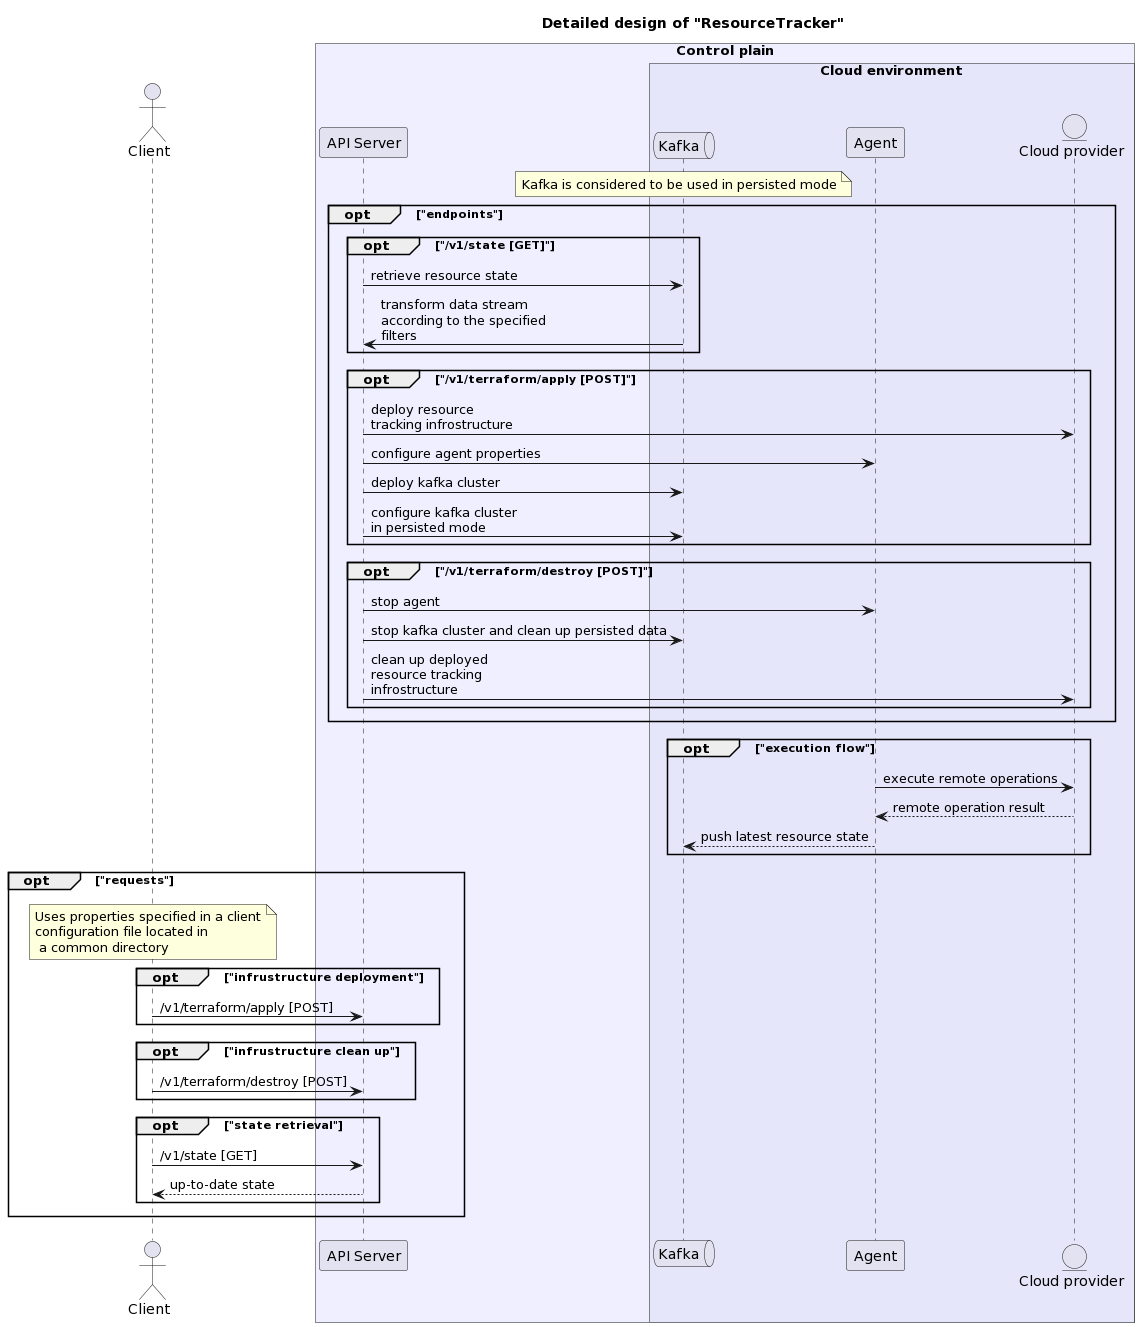
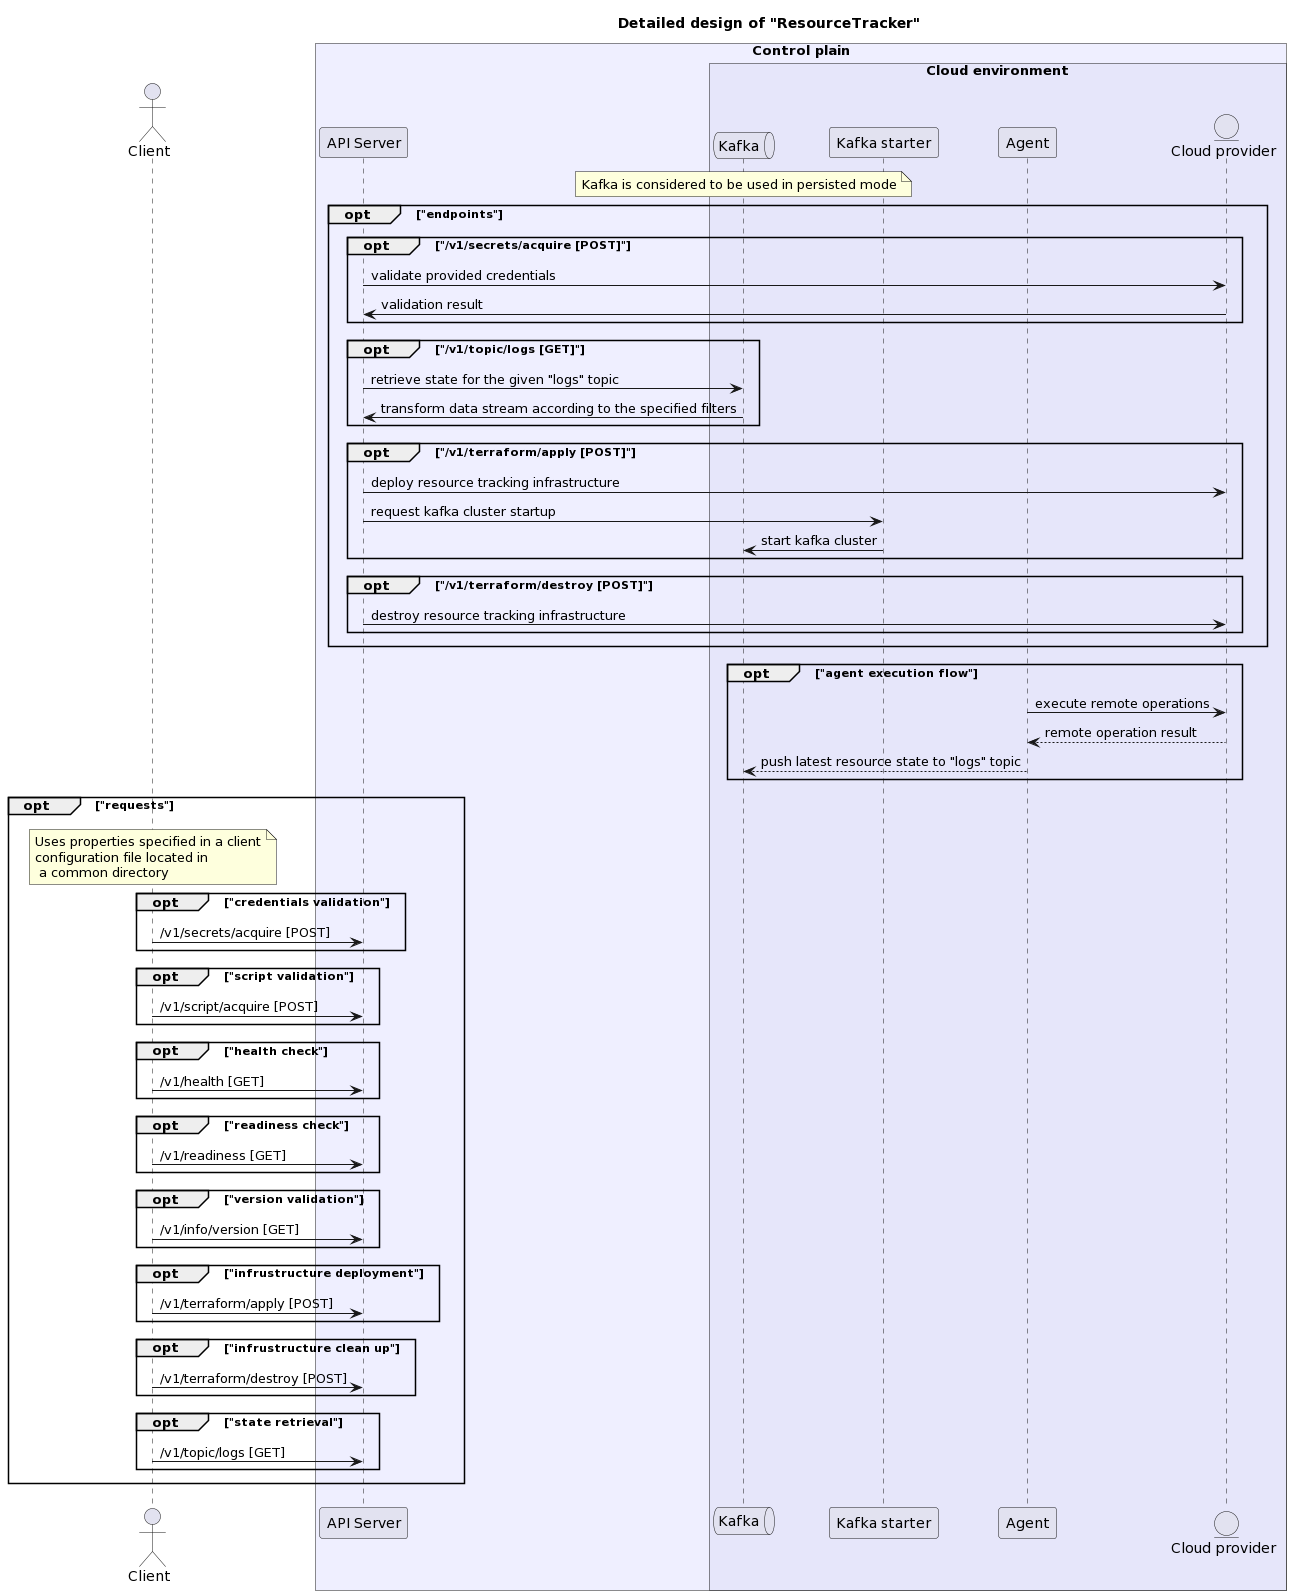
feature: updated docs

diff --git a/api-server/src/main/java/com/resourcetracker/service/kafka/KafkaService.java b/api-server/src/main/java/com/resourcetracker/service/kafka/KafkaService.java
@@ -16,6 +16,7 @@ import org.apache.kafka.common.Node;
 import org.apache.kafka.common.errors.TimeoutException;
 import org.apache.kafka.common.errors.UnsupportedVersionException;
 
+/** */
 public class KafkaService {
   private AdminClient kafkaAdminClient;
 
@@ -25,7 +26,13 @@ public class KafkaService {
 
   private final KafkaConsumer<String, KafkaLogsTopicDto> kafkaConsumer;
 
-  public KafkaService(String kafkaBootstrapServer, PropertiesEntity properties) {
+  public KafkaService(String kafkaBootstrapServerHost, PropertiesEntity properties) {
+    String kafkaBootstrapServer =
+        String.format(
+            "%s:%d", kafkaBootstrapServerHost, properties.getResourceTrackerKafkaMainPort());
+
+    System.out.println(kafkaBootstrapServerHost);
+
     Properties kafkaAdminClientProps = new Properties();
 
     kafkaAdminClientProps.put(ConsumerConfig.BOOTSTRAP_SERVERS_CONFIG, kafkaBootstrapServer);
@@ -52,6 +59,11 @@ public class KafkaService {
     this.kafkaConsumer.subscribe(Collections.singletonList(properties.getKafkaTopic()));
   }
 
+  /**
+   * Checks if Kafka service is connected to Kafka cluster at the given address.
+   *
+   * @return result of the check.
+   */
   public boolean isConnected() {
     if (isAvailable()) {
       if (Objects.isNull(kafkaAdminClient)) {
@@ -74,10 +86,16 @@ public class KafkaService {
     return false;
   }
 
-  private boolean isAvailable() {
+  /**
+   * Checks if Kafka service is available at the given address.
+   *
+   * @return result of the check.
+   */
+  public boolean isAvailable() {
     URL url;
+
     try {
-      url = URI.create(kafkaBootstrapServer).toURL();
+      url = URI.create(String.format("http://%s", kafkaBootstrapServer)).toURL();
     } catch (MalformedURLException e) {
       return false;
     }
@@ -91,6 +109,26 @@ public class KafkaService {
     }
   }
 
+  /**
+   * Checks if the given Kafka topic exists.
+   *
+   * @param name given Kafka topic name.
+   * @return result of the check.
+   */
+  public boolean isTopicExist(String name) {
+    kafkaAdminClient.listTopics().names().whenComplete((e, b) -> System.out.println(e.stream().toList()));
+
+//      return !kafkaConsumer.listTopics().keySet().stream()
+//          .filter(element -> !element.equals(name))
+//          .toList()
+//          .isEmpty();
+
+    return false;
+  }
+
+  /**
+   * @return
+   */
   public List<KafkaLogsTopicDto> consumeLogs() {
     List<KafkaLogsTopicDto> kafkaLogsTopicEntities = new ArrayList<>();
 

diff --git a/api-server/src/main/java/com/resourcetracker/entity/PropertiesEntity.java b/api-server/src/main/java/com/resourcetracker/entity/PropertiesEntity.java
@@ -30,6 +30,9 @@ public class PropertiesEntity {
   @ConfigProperty(name = "kafka.partitions")
   String kafkaPartitions;
 
+  @ConfigProperty(name = "kafka.readiness.period")
+  Integer kafkaReadinessPeriod;
+
   @ConfigProperty(name = "terraform.directory")
   String terraformDirectory;
 
@@ -56,10 +59,6 @@ public class PropertiesEntity {
 
   @ConfigProperty(name = "resourcetracker-kafka.image")
   String resourceTrackerKafkaImage;
-
-  //
-  //  @ConfigProperty(name = "resourcetracker-kafka.image.version")
-  //  String resourceTrackerKafkaImageVersion;
 
   @ConfigProperty(name = "resourcetracker-kafka.host.alias")
   String resourceTrackerKafkaHostAlias;

diff --git a/docs/detailed-design-raw.md b/docs/detailed-design-raw.md
@@ -12,6 +12,7 @@ participant "API Server" as apiserver
 
 box "Cloud environment" #Lavender
 queue "Kafka" as kafka
+participant "Kafka starter" as kafkastarter
 participant "Agent" as agent
 entity "Cloud provider" as cloudprovider
 end box
@@ -21,32 +22,47 @@ end box
 note over kafka: Kafka is considered to be used in persisted mode
 
 opt "endpoints"
-opt "/v1/state [GET]"
-apiserver -> kafka: retrieve resource state
-kafka -> apiserver: transform data stream\naccording to the specified\nfilters
+opt "/v1/secrets/acquire [POST]"
+apiserver -> cloudprovider: validate provided credentials
+cloudprovider -> apiserver: validation result
+end
+opt "/v1/topic/logs [GET]"
+apiserver -> kafka: retrieve state for the given "logs" topic
+kafka -> apiserver: transform data stream according to the specified filters
 end
 opt "/v1/terraform/apply [POST]"
-apiserver -> cloudprovider: deploy resource\ntracking infrostructure
-apiserver -> agent: configure agent properties
-apiserver -> kafka: deploy kafka cluster
-apiserver -> kafka: configure kafka cluster\nin persisted mode
+apiserver -> cloudprovider: deploy resource tracking infrastructure
+apiserver -> kafkastarter: request kafka cluster startup 
+kafkastarter -> kafka: start kafka cluster
 end
 opt "/v1/terraform/destroy [POST]"
-apiserver -> agent: stop agent
-apiserver -> kafka: stop kafka cluster and clean up persisted data
-apiserver -> cloudprovider: clean up deployed\nresource tracking\ninfrostructure
+apiserver -> cloudprovider: destroy resource tracking infrastructure
 end
 end
 
-opt "execution flow"
+opt "agent execution flow"
 agent -> cloudprovider: execute remote operations
 agent <-- cloudprovider: remote operation result
-agent --> kafka: push latest resource state
+agent --> kafka: push latest resource state to "logs" topic
 end
 
 opt "requests"
 note over client: Uses properties specified in a client\nconfiguration file located in\n a common directory
-
+opt "credentials validation"
+client -> apiserver: /v1/secrets/acquire [POST]
+end
+opt "script validation"
+client -> apiserver: /v1/script/acquire [POST]
+end
+opt "health check"
+client -> apiserver: /v1/health [GET]
+end
+opt "readiness check"
+client -> apiserver: /v1/readiness [GET]
+end
+opt "version validation"
+client -> apiserver: /v1/info/version [GET]
+end
 opt "infrustructure deployment"
 client -> apiserver: /v1/terraform/apply [POST]
 end
@@ -54,8 +70,7 @@ opt "infrustructure clean up"
 client -> apiserver: /v1/terraform/destroy [POST]
 end
 opt "state retrieval"
-client -> apiserver: /v1/state [GET]
-client <-- apiserver: up-to-date state 
+client -> apiserver: /v1/topic/logs [GET]
 end 
 end
 ```

diff --git a/README.md b/README.md
@@ -22,12 +22,14 @@ All setup related operations are processed via **Makefile** placed in the root d
 
 ### CLI
 
-In order to build CLI it's required to execute the following command. Initially it cleans the environment and build Java project using **Maven**
+In order to build CLI it's required to execute the following command. Initially it cleans the environment and builds Java project using **Maven**
 ```shell
 make build-cli
 ```
 
 After the execution of command given above the executable will be generated and placed into **bin** folder in the root directory of the project
+
+**CLI** build automatically places default **user.yaml** configuration file into ~/.resourcetracker/config directory.
 
 ### GUI
 
@@ -38,15 +40,23 @@ make build-gui
 
 After the execution of command given above the executable will be generated and placed into **bin** folder in the root directory of the project
 
-GUI build automatically compiles API Server and places both executable JAR and other dependencies into **~/.resourcetracker/bin/api-server** directory
+**GUI** build automatically compiles **API Server** and places both executable JAR and other dependencies into **~/.resourcetracker/bin/api-server** directory
 
-It's highly recommended not to move API Server files from the default local directory
+It's highly recommended not to move **API Server** files from the default local directory
 
 ### API Server
 
-In order to build API Server it's required to execute the following command. Initially it cleans the environment and build Java project using **Maven**
+In order to build **API Server** it's required to execute the following command. Initially it cleans the environment and build Java project using **Maven**
 ```shell
 make build-api-server
 ```
 
 After the execution of command given above the executable will be generated and placed into **bin** folder in the root directory of the project
+
+## Use cases
+
+### CLI
+
+
+
+### GUI

diff --git a/docs/high-level-design-raw.md b/docs/high-level-design-raw.md
@@ -11,15 +11,24 @@ component "Control plain" {
 node "API Server"
 
 cloud "Cloud environment" {
-node "Kafka"
+cloud "Agent container" {
 node "Agent"
+}
+
+cloud "Kafka container" {
+node "Kafka"
+node "Kafka starter"
+}
 hexagon "Cloud provider"
 
     [Agent] <--> [Cloud provider]: "Execute remote operation\nand save the result"
     [Agent] --> [Kafka]: "Push latest resource state"
 }
 
-[API Server] --> [Kafka]: "Perform deployment and event filtering\t\t"
+[API Server] --> [Agent]: " Perform infrastructure deployment\n"
+[API Server] --> [Kafka starter]: " Initialize Kafka startup\n"
+[Kafka starter] --> [Kafka]: "Start Kafka cluster\n"
+[API Server] <--> [Kafka]: "Perform event filtering\t\t"
 }
 
 [Client] --> [API Server]: " Perform resource related operations"
